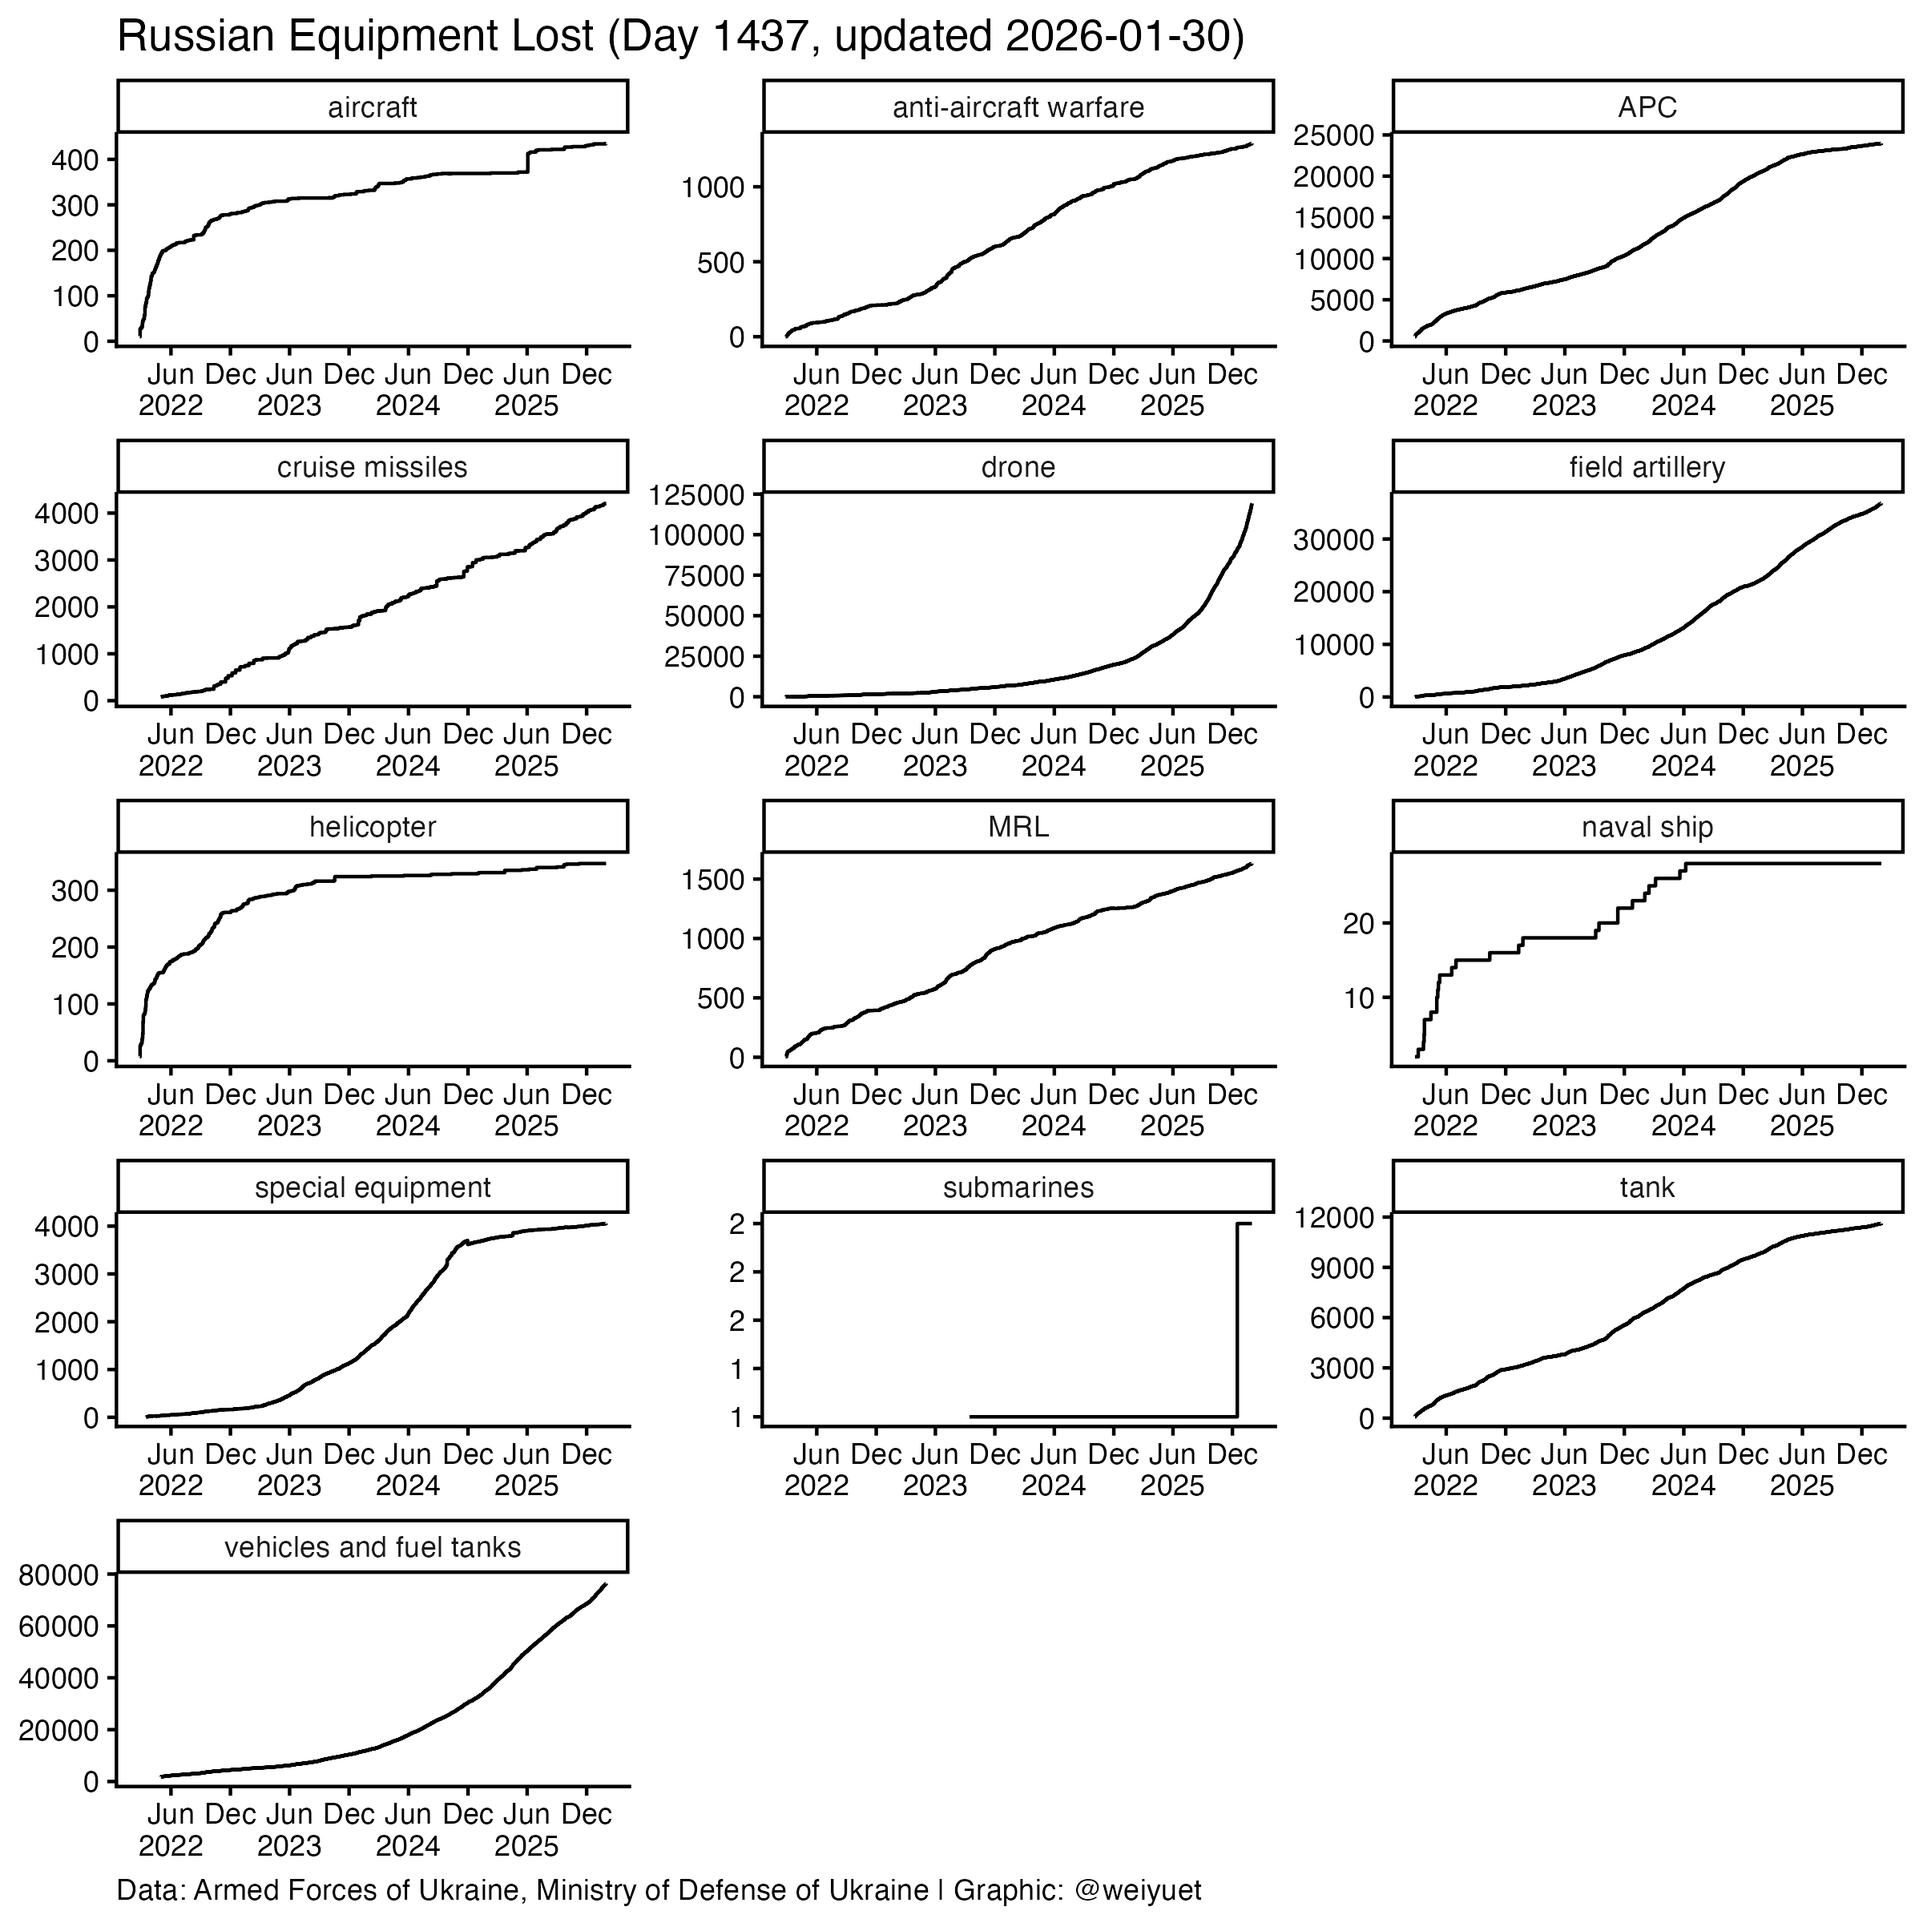
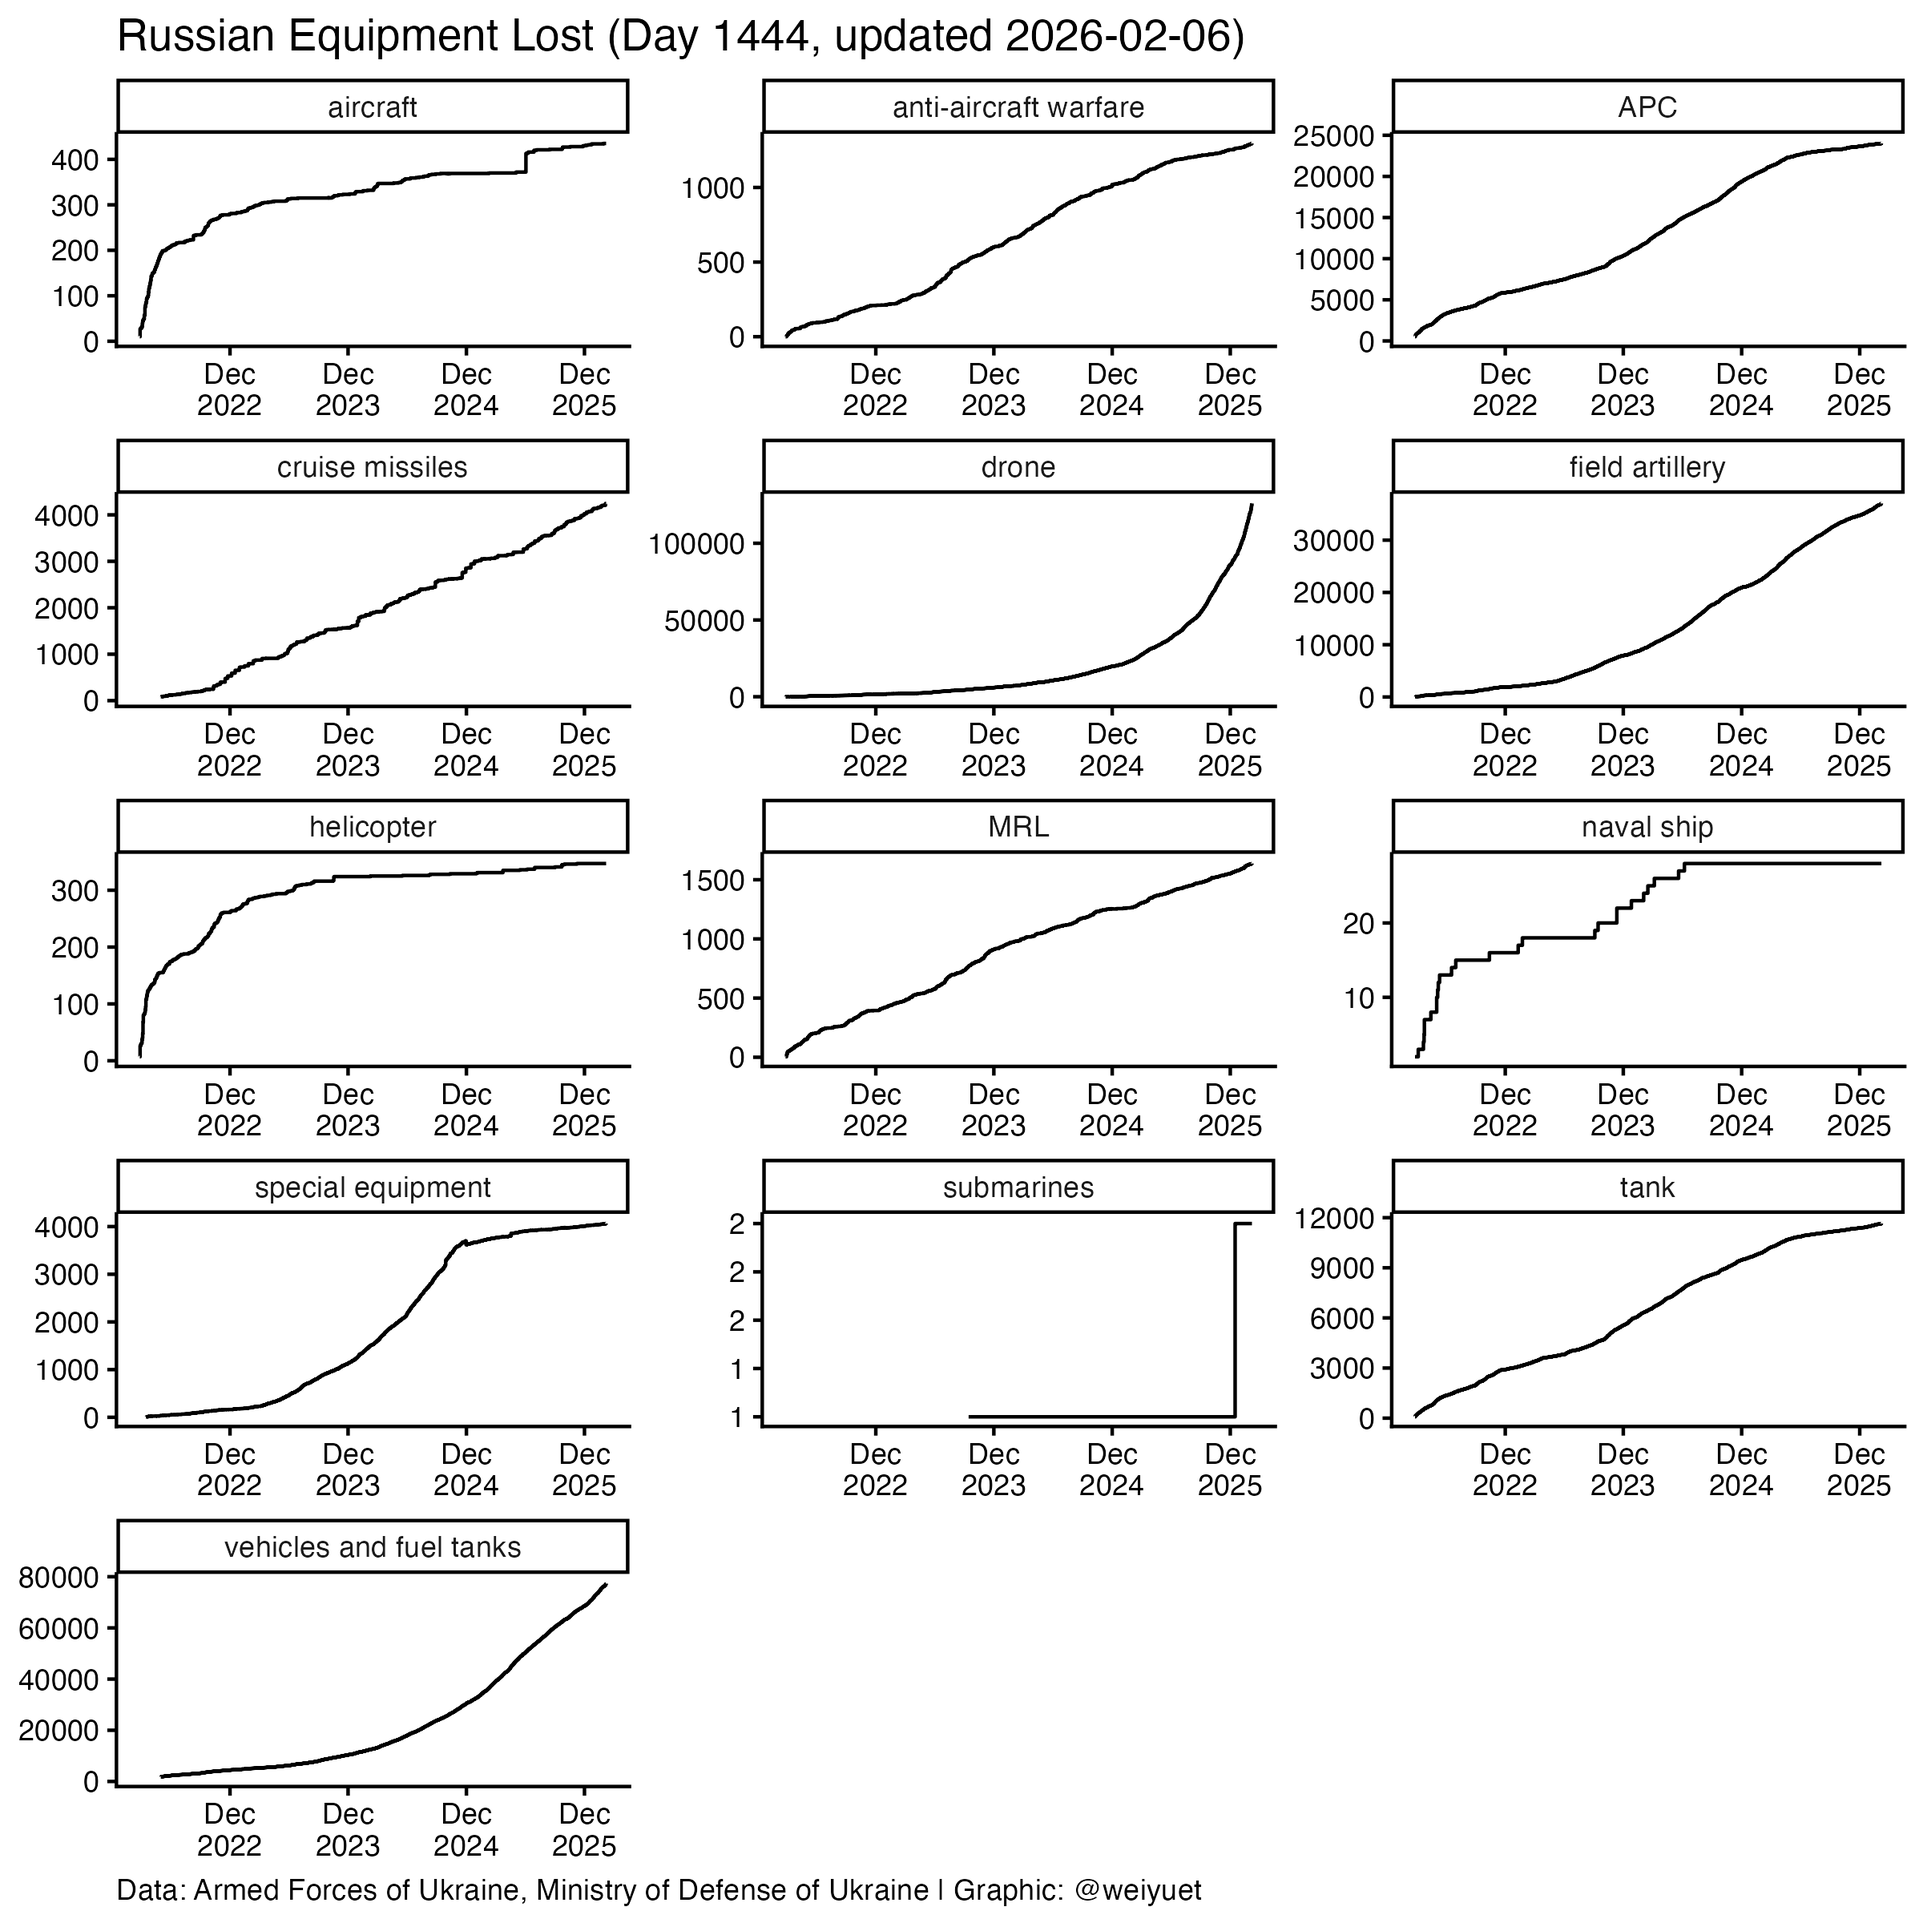
Updated 7 February

diff --git a/README.md b/README.md
@@ -2,7 +2,7 @@
 
 Created: 2022-05-26
 
-Updated: 2026-01-31
+Updated: 2026-02-07
 
   - First Inspired by [`Lena Sokol's Kaggle`](https://www.kaggle.com/code/sokolheavy/2022-ukraine-russia-war-visualization).
 
